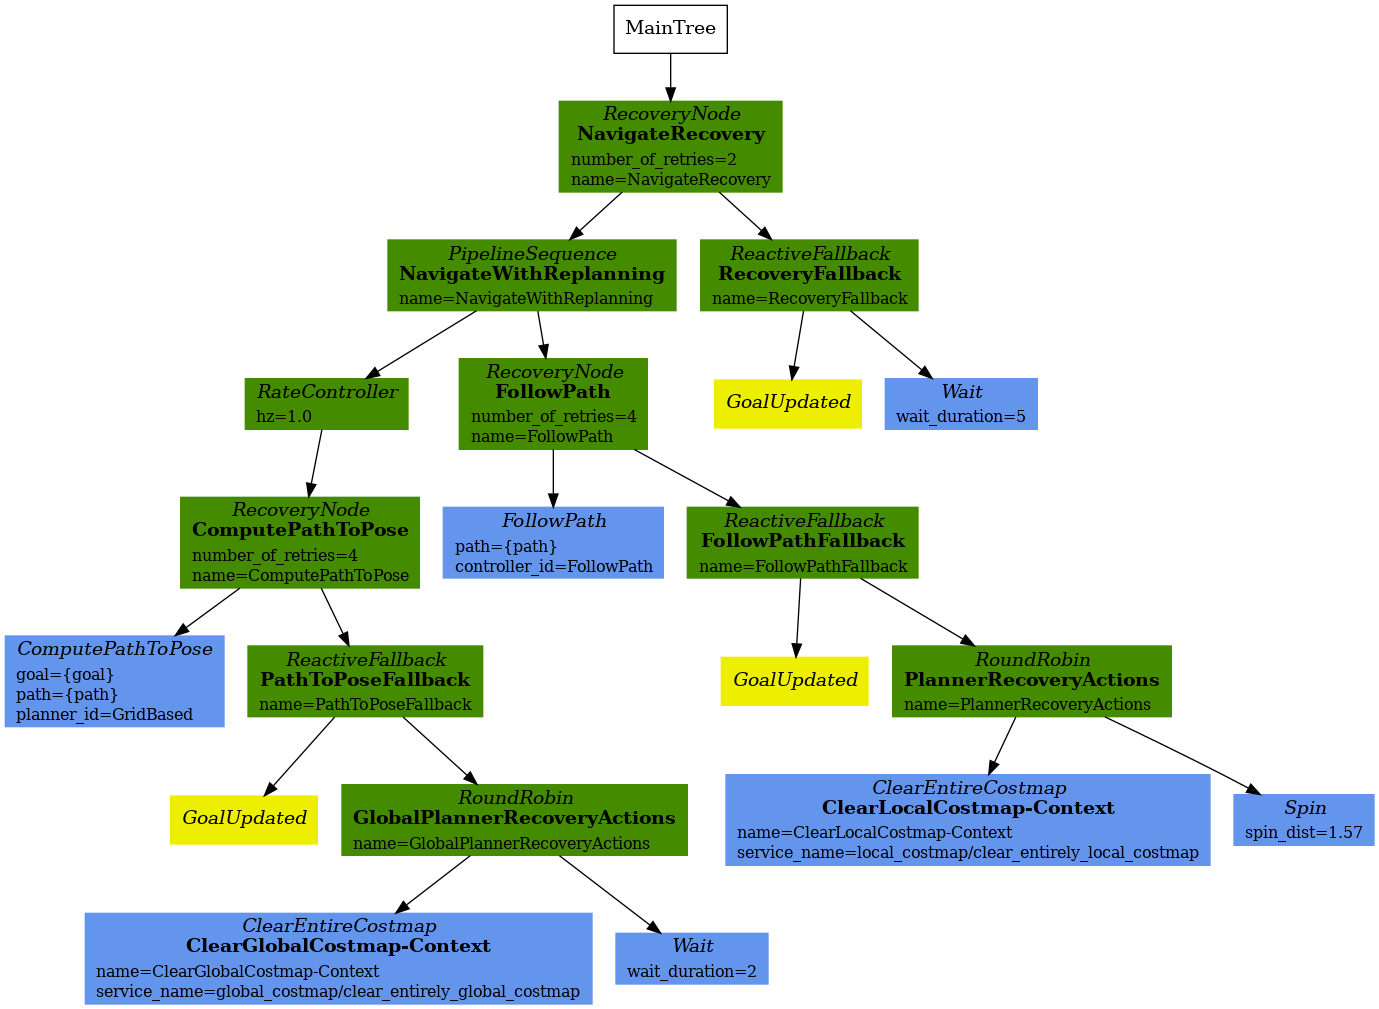
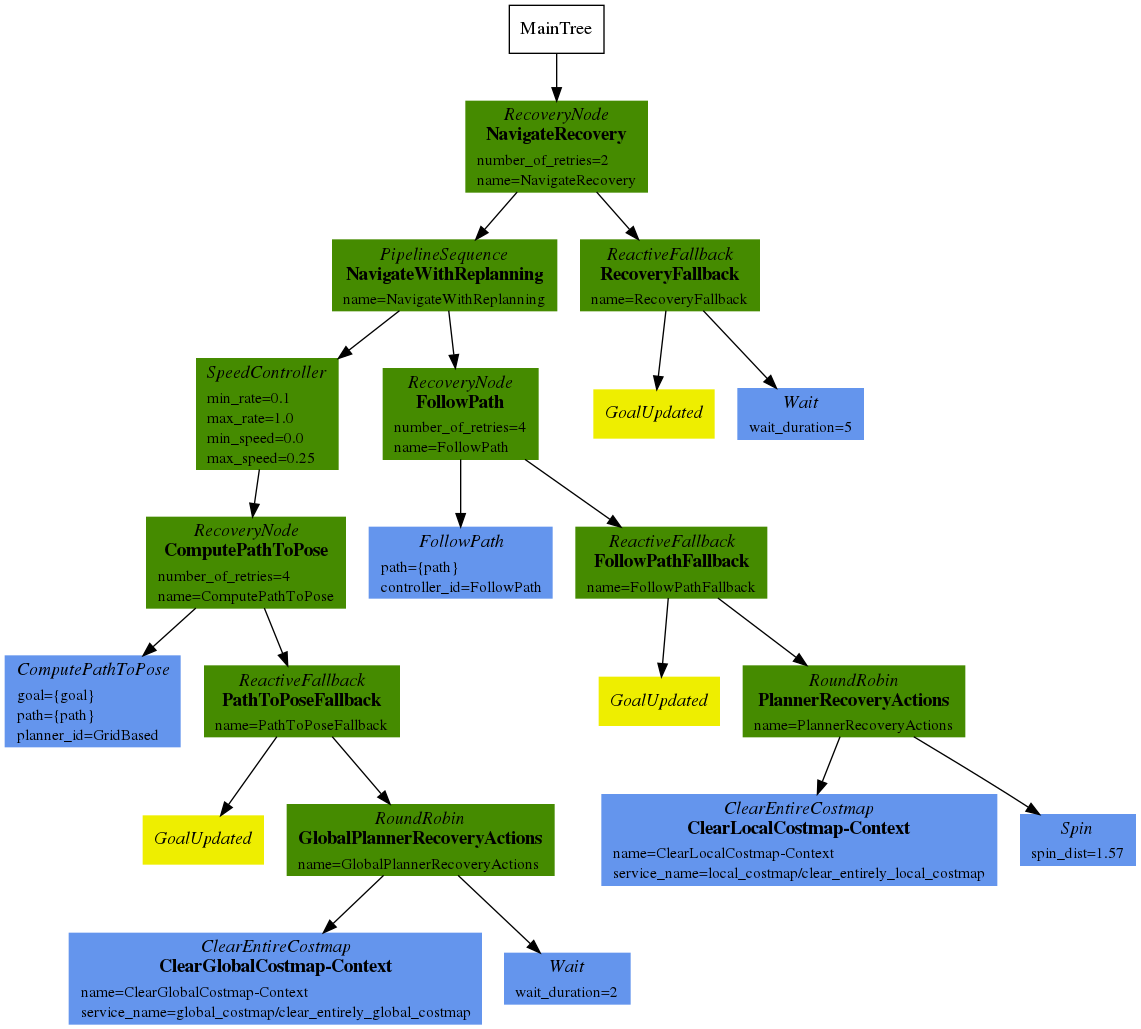
Add SpeedController decorator node and update default BTs

Changed region(s): [[0.0, 0.0, 1.0, 1.0], [0.0613, 0.891, 0.092, 0.9217]]

diff --git a/nav2_behavior_tree/plugins/decorator/speed_controller.cpp b/nav2_behavior_tree/plugins/decorator/speed_controller.cpp
@@ -1,0 +1,106 @@
+// Copyright (c) 2018 Intel Corporation
+// Copyright (c) 2020 Sarthak Mittal
+//
+// Licensed under the Apache License, Version 2.0 (the "License");
+// you may not use this file except in compliance with the License.
+// You may obtain a copy of the License at
+//
+//     http://www.apache.org/licenses/LICENSE-2.0
+//
+// Unless required by applicable law or agreed to in writing, software
+// distributed under the License is distributed on an "AS IS" BASIS,
+// WITHOUT WARRANTIES OR CONDITIONS OF ANY KIND, either express or implied.
+// See the License for the specific language governing permissions and
+// limitations under the License.
+
+#include "nav2_util/geometry_utils.hpp"
+
+#include "speed_controller.hpp"
+
+namespace nav2_behavior_tree
+{
+
+SpeedController::SpeedController(
+  const std::string & name,
+  const BT::NodeConfiguration & conf)
+  : BT::DecoratorNode(name, conf),
+    first_time_(false),
+    period_(1.0)
+{
+  getInput("min_rate", min_rate_);
+  getInput("max_rate", max_rate_);
+  getInput("min_speed", min_speed_);
+  getInput("max_speed", max_speed_);
+
+  d_rate_ = max_rate_ - min_rate_;
+  d_speed_ = max_speed_ - min_speed_;
+
+  node_ = config().blackboard->get<rclcpp::Node::SharedPtr>("node");
+
+  odom_sub_ = node_->create_subscription<nav_msgs::msg::Odometry>(
+    "odom",
+    rclcpp::SystemDefaultsQoS(),
+    std::bind(&SpeedController::onOdomReceived, this, std::placeholders::_1));
+}
+
+inline BT::NodeStatus SpeedController::tick()
+{
+  if (status() == BT::NodeStatus::IDLE) {
+    // Reset the starting position since we're starting a new iteration of
+    // the distance controller (moving from IDLE to RUNNING)
+    start_ = std::chrono::steady_clock::now();
+    first_time_ = true;
+  }
+
+  setStatus(BT::NodeStatus::RUNNING);
+
+  auto now = std::chrono::steady_clock::now();
+  auto elapsed = now - start_;
+
+  // Now, get that in seconds
+  typedef std::chrono::duration<float> float_seconds;
+  auto seconds = std::chrono::duration_cast<float_seconds>(elapsed);
+
+  // The child gets ticked the first time through and any time the period has
+  // expired. In addition, once the child begins to run, it is ticked each time
+  // 'til completion
+  if (first_time_ || (child_node_->status() == BT::NodeStatus::RUNNING) ||
+    seconds.count() >= period_)
+  {
+    first_time_ = false;
+    const BT::NodeStatus child_state = child_node_->executeTick();
+
+    switch (child_state) {
+      case BT::NodeStatus::RUNNING:
+        return BT::NodeStatus::RUNNING;
+
+      case BT::NodeStatus::SUCCESS:
+        start_ = std::chrono::steady_clock::now();  // Reset the timer
+        return BT::NodeStatus::SUCCESS;
+
+      case BT::NodeStatus::FAILURE:
+      default:
+        return BT::NodeStatus::FAILURE;
+    }
+  }
+
+  return status();
+}
+
+void SpeedController::onOdomReceived(const nav_msgs::msg::Odometry::SharedPtr msg)
+{
+  // Calculate speed using velocity components
+  double speed = std::sqrt(msg->twist.twist.linear.x * msg->twist.twist.linear.x +
+    msg->twist.twist.linear.y * msg->twist.twist.linear.y);
+
+  // Calculate scaled time period based on current speed
+  period_ = 1.0 / getScaledRate(speed);
+}
+
+}  // namespace nav2_behavior_tree
+
+#include "behaviortree_cpp_v3/bt_factory.h"
+BT_REGISTER_NODES(factory)
+{
+  factory.registerNodeType<nav2_behavior_tree::SpeedController>("SpeedController");
+}

diff --git a/nav2_behavior_tree/plugins/decorator/speed_controller.hpp b/nav2_behavior_tree/plugins/decorator/speed_controller.hpp
@@ -1,0 +1,88 @@
+// Copyright (c) 2018 Intel Corporation
+// Copyright (c) 2020 Sarthak Mittal
+//
+// Licensed under the Apache License, Version 2.0 (the "License");
+// you may not use this file except in compliance with the License.
+// You may obtain a copy of the License at
+//
+//     http://www.apache.org/licenses/LICENSE-2.0
+//
+// Unless required by applicable law or agreed to in writing, software
+// distributed under the License is distributed on an "AS IS" BASIS,
+// WITHOUT WARRANTIES OR CONDITIONS OF ANY KIND, either express or implied.
+// See the License for the specific language governing permissions and
+// limitations under the License.
+
+#ifndef NAV2_BEHAVIOR_TREE__PLUGINS__DECORATOR__SPEED_CONTROLLER_HPP_
+#define NAV2_BEHAVIOR_TREE__PLUGINS__DECORATOR__SPEED_CONTROLLER_HPP_
+
+#include <memory>
+#include <string>
+#include <deque>
+
+#include "nav_msgs/msg/odometry.hpp"
+
+#include "behaviortree_cpp_v3/decorator_node.h"
+
+namespace nav2_behavior_tree
+{
+
+class SpeedController : public BT::DecoratorNode
+{
+public:
+  SpeedController(
+    const std::string & name,
+    const BT::NodeConfiguration & conf);
+
+  // Any BT node that accepts parameters must provide a requiredNodeParameters method
+  static BT::PortsList providedPorts()
+  {
+    return {
+      BT::InputPort<double>("min_rate", 0.1, "Minimum rate"),
+      BT::InputPort<double>("max_rate", 1.0, "Maximum rate"),
+      BT::InputPort<double>("min_speed", 0.0, "Minimum speed"),
+      BT::InputPort<double>("max_speed", 0.25, "Maximum speed")
+    };
+  }
+
+private:
+  BT::NodeStatus tick() override;
+
+  void onOdomReceived(nav_msgs::msg::Odometry::SharedPtr msg);
+
+  // Scale the rate based speed
+  inline double getScaledRate(double speed)
+  {
+    return std::max(
+      std::min(
+        (((speed - min_speed_) / d_speed_) * d_rate_) + min_rate_,
+        max_rate_), min_rate_);
+  }
+
+  rclcpp::Node::SharedPtr node_;
+
+  // Listen to odometry
+  rclcpp::Subscription<nav_msgs::msg::Odometry>::SharedPtr odom_sub_;
+
+  // To keep track of time to reset
+  std::chrono::time_point<std::chrono::steady_clock> start_;
+
+  bool first_time_;
+
+  // Time period after which child node should be ticked
+  double period_;
+
+  // Rates thresholds to tick child node
+  double min_rate_;
+  double max_rate_;
+  double d_rate_;
+
+  // Speed thresholds
+  double min_speed_;
+  double max_speed_;
+  double d_speed_;
+};
+
+}  // namespace nav2_behavior_tree
+
+#endif //NAV2_BEHAVIOR_TREE_SPEED_CONTROLLER_HPP

diff --git a/nav2_bt_navigator/src/bt_navigator.cpp b/nav2_bt_navigator/src/bt_navigator.cpp
@@ -49,6 +49,7 @@ BtNavigator::BtNavigator()
     "nav2_reinitialize_global_localization_service_bt_node",
     "nav2_rate_controller_bt_node",
     "nav2_distance_controller_bt_node",
+    "nav2_speed_controller_bt_node",
     "nav2_recovery_node_bt_node",
     "nav2_pipeline_sequence_bt_node",
     "nav2_round_robin_node_bt_node",

diff --git a/tools/bt2img.py b/tools/bt2img.py
@@ -38,6 +38,7 @@ control_nodes = [
     "Timeout",
     "RateController",
     "DistanceController",
+    "SpeedController",
     "RecoveryNode",
     "PipelineSequence",
     "RoundRobin"

diff --git a/nav2_behavior_tree/README.md b/nav2_behavior_tree/README.md
@@ -75,6 +75,7 @@ The nav2_behavior_tree package provides several navigation-specific nodes that a
 | NavigateToPose | Action | Invokes the NavigateToPose ROS2 action server, which is implemented by the bt_navigator module. |
 | RateController | Decorator | A node that throttles the tick rate for its child. The tick rate can be supplied to the node as a parameter. The node returns RUNNING when it is not ticking its child. Currently, in the navigation stack, the `RateController` is used to adjust the rate at which the `ComputePathToPose` and `GoalReached` nodes are ticked. |
 | DistanceController | Decorator | A node that controls the tick rate for its child based on the distance traveled. The distance to be traveled before replanning can be supplied to the node as a parameter. The node returns RUNNING when it is not ticking its child. Currently, in the navigation stack, the `DistanceController` is used to adjust the rate at which the `ComputePathToPose` and `GoalReached` nodes are ticked. |
+| SpeedController | Decorator | A node that controls the tick rate for its child based on the current speed. This decorator offers the most flexibility as the user can set the minimum/maximum tick rate which is adjusted according to the current speed. |
 | RecoveryNode | Control | The RecoveryNode is a control flow node with two children.  It returns SUCCESS if and only if the first child returns SUCCESS. The second child will be executed only if the first child returns FAILURE. If the second child SUCCEEDS, then the first child will be executed again. The user can specify how many times the recovery actions should be taken before returning FAILURE. In nav2, the RecoveryNode is included in Behavior Trees to implement recovery actions upon failures.
 | Spin | Action | Invokes the Spin ROS2 action server, which is implemented by the nav2_recoveries module. This action is using in nav2 Behavior Trees as a recovery behavior. |
 | PipelineSequence | Control | Ticks the first child till it succeeds, then ticks the first and second children till the second one succeeds. It then ticks the first, second, and third children until the third succeeds, and so on, and so on. If at any time a child returns RUNNING, that doesn't change the behavior. If at any time a child returns FAILURE, that stops all children and returns FAILURE overall.|

diff --git a/nav2_bt_navigator/README.md b/nav2_bt_navigator/README.md
@@ -64,6 +64,8 @@ returns FAILURE, all nodes are halted and this node returns FAILURE.
 
 * DistanceController: A custom control flow node, which controls the tick rate based on the distance traveled.  This custom node has only one child. The user can set the distance after which the planner should replan a new path.  This node returns RUNNING when it is not ticking its child. Currently, in navigation, the `DistanceController` is used to tick the  `ComputePathToPose` and `GoalReached` node after every 0.5 meters.
 
+* SpeedController: A custom control flow node, which controls the tick rate based on the current speed.  This decorator offers the most flexibility as the user can set the minimum/maximum tick rate which is adjusted according to the current speed.
+
 #### Condition Nodes
 * GoalReached: Checks the distance to the goal, if the distance to goal is less than the pre-defined threshold, the tree returns SUCCESS, which in that case the `ComputePathToPose` action node will not get ticked.
 
